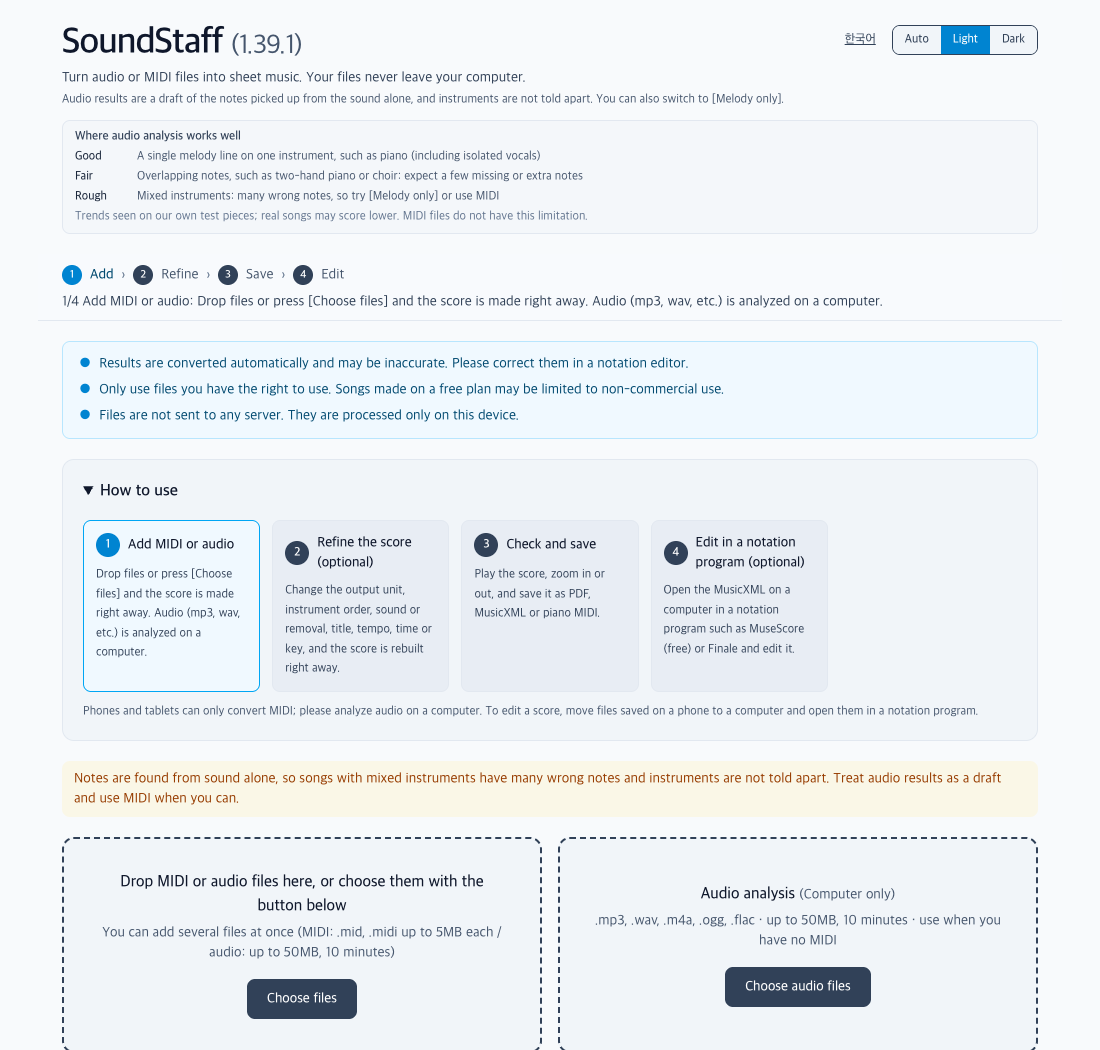
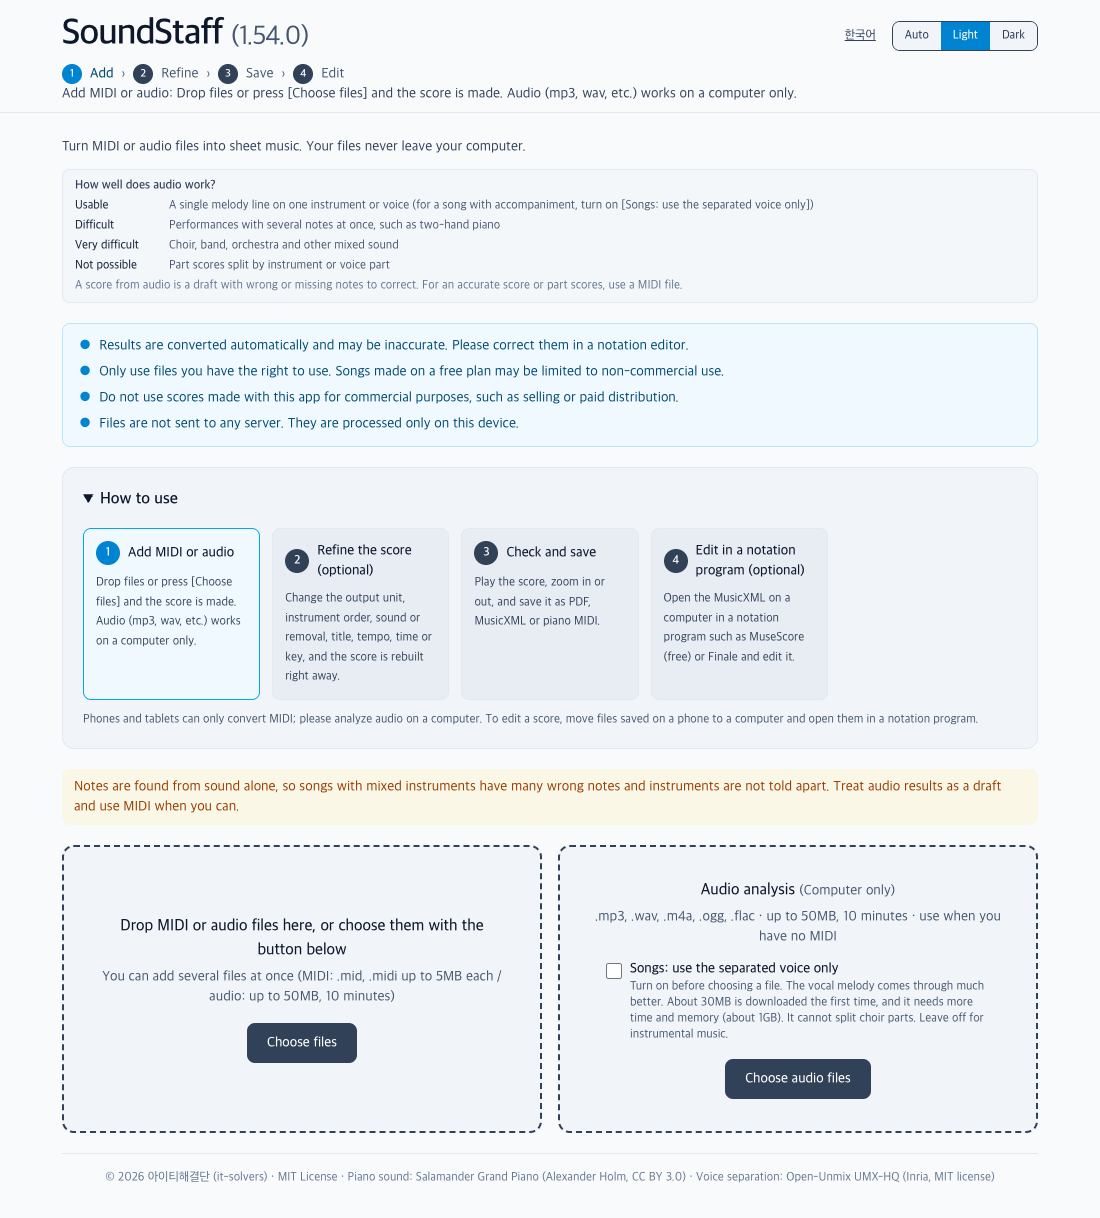
SoundStaff 소개 페이지(한글·영문)의 화면 캡처를 앱 1.54.0 화면으로 교체

diff --git a/en/insights/soundstaff.html b/en/insights/soundstaff.html
@@ -220,15 +220,15 @@
       <h2>How to use it</h2>
       <h3>1. Add a file</h3>
       <p>Drag a MIDI file (.mid, .midi) onto the page or press the file button. Audio analysis is on the right-hand card and is available on a PC only.</p>
-      <img src="../../images/soundstaff/en/01-start.png" alt="The SoundStaff start screen: usage instructions and two cards for adding a MIDI file or an audio file" width="1100" height="1050" loading="lazy" style="max-width:100%;height:auto;border:1px solid #c8d1dc;border-radius:8px;display:block;margin:12px 0">
+      <img src="../../images/soundstaff/en/01-start.png" alt="The SoundStaff start screen: usage instructions and two cards for adding a MIDI file or an audio file" width="1100" height="1218" loading="lazy" style="max-width:100%;height:auto;border:1px solid #c8d1dc;border-radius:8px;display:block;margin:12px 0">
 
       <h3>2. Adjust the score (optional)</h3>
       <p>You will see the tempo, time signature, and key it read from the piece. You can enter a title and composer, reorder the instruments, mute them, or remove them from the score. The score is rebuilt as soon as you change something.</p>
-      <img src="../../images/soundstaff/en/02-settings.png" alt="The track list of the piece, the score settings (title, composer, tempo, time signature, key), and buttons to reorder, mute, or remove each instrument" width="1100" height="1190" loading="lazy" style="max-width:100%;height:auto;border:1px solid #c8d1dc;border-radius:8px;display:block;margin:12px 0">
+      <img src="../../images/soundstaff/en/02-settings.png" alt="The track list of the piece, the score settings (title, composer, tempo, time signature, key), and buttons to reorder, mute, or remove each instrument" width="1100" height="1241" loading="lazy" style="max-width:100%;height:auto;border:1px solid #c8d1dc;border-radius:8px;display:block;margin:12px 0">
 
       <h3>3. Check and save</h3>
       <p>Play the score to hear it, zoom in and out to check it, and then save it as a PDF, MusicXML, or piano MIDI. With two or more instruments, [Make ZIP of parts] gives you a score for each one.</p>
-      <img src="../../images/soundstaff/en/03-score.png" alt="The score preview and the download buttons for PDF, MusicXML, and piano MIDI" width="1100" height="1063" loading="lazy" style="max-width:100%;height:auto;border:1px solid #c8d1dc;border-radius:8px;display:block;margin:12px 0">
+      <img src="../../images/soundstaff/en/03-score.png" alt="The score preview and the download buttons for PDF, MusicXML, and piano MIDI" width="1100" height="1093" loading="lazy" style="max-width:100%;height:auto;border:1px solid #c8d1dc;border-radius:8px;display:block;margin:12px 0">
 
       <h3>4. Edit in a notation program (optional)</h3>
       <p>On a computer, open the saved MusicXML file in a notation program such as MuseScore or Finale and edit it. If you downloaded the file on a phone, move it to a computer first. Each program may display the score a little differently.</p>

diff --git a/insights/soundstaff.html b/insights/soundstaff.html
@@ -217,15 +217,15 @@
       <h2>사용 방법</h2>
       <h3>1. 파일 올리기</h3>
       <p>MIDI 파일(.mid, .midi)을 끌어다 놓거나 [파일 선택]을 눌러요. 음원 분석은 오른쪽 카드에서 하며 PC에서만 쓸 수 있어요.</p>
-      <img src="../images/soundstaff/01-start.png" alt="SoundStaff 첫 화면: 사용 방법 안내와 MIDI·음원 파일을 올리는 두 개의 카드" width="1100" height="1050" loading="lazy" style="max-width:100%;height:auto;border:1px solid #c8d1dc;border-radius:8px;display:block;margin:12px 0">
+      <img src="../images/soundstaff/01-start.png" alt="SoundStaff 첫 화면: 사용 방법 안내와 MIDI·음원 파일을 올리는 두 개의 카드" width="1100" height="1200" loading="lazy" style="max-width:100%;height:auto;border:1px solid #c8d1dc;border-radius:8px;display:block;margin:12px 0">
 
       <h3>2. 악보 다듬기 (선택)</h3>
       <p>읽은 곡의 템포·박자·조성이 보여요. 제목과 작곡자를 적고, 악기 순서를 바꾸거나 소리를 끄거나 악보에서 뺄 수 있어요. 바꾸면 악보가 바로 다시 만들어집니다.</p>
-      <img src="../images/soundstaff/02-settings.png" alt="읽은 곡의 트랙 목록과 악보 설정(제목, 작곡자, 템포, 박자, 조성)과 악기 순서·소리 끄기·빼기 버튼" width="1100" height="1190" loading="lazy" style="max-width:100%;height:auto;border:1px solid #c8d1dc;border-radius:8px;display:block;margin:12px 0">
+      <img src="../images/soundstaff/02-settings.png" alt="읽은 곡의 트랙 목록과 악보 설정(제목, 작곡자, 템포, 박자, 조성)과 악기 순서·소리 끄기·빼기 버튼" width="1100" height="1241" loading="lazy" style="max-width:100%;height:auto;border:1px solid #c8d1dc;border-radius:8px;display:block;margin:12px 0">
 
       <h3>3. 확인하고 저장</h3>
       <p>악보를 재생해 들어 보고 확대·축소해서 확인한 뒤, PDF·MusicXML·피아노 MIDI로 저장해요. 악기가 둘 이상이면 [파트보 ZIP 만들기]로 악기별 악보도 받을 수 있어요.</p>
-      <img src="../images/soundstaff/03-score.png" alt="악보 미리보기 화면과 PDF·MusicXML·피아노 MIDI 다운로드 버튼" width="1100" height="1063" loading="lazy" style="max-width:100%;height:auto;border:1px solid #c8d1dc;border-radius:8px;display:block;margin:12px 0">
+      <img src="../images/soundstaff/03-score.png" alt="악보 미리보기 화면과 PDF·MusicXML·피아노 MIDI 다운로드 버튼" width="1100" height="1093" loading="lazy" style="max-width:100%;height:auto;border:1px solid #c8d1dc;border-radius:8px;display:block;margin:12px 0">
 
       <h3>4. 악보 프로그램에서 고치기 (선택)</h3>
       <p>PC의 악보 프로그램(MuseScore, Finale 등)에서 저장한 MusicXML 파일을 열어 고쳐요. 폰에서 받았다면 파일을 PC로 옮겨 주세요. 프로그램마다 보이는 모습은 조금 다를 수 있어요.</p>

diff --git a/docs/spec-v1.0.md b/docs/spec-v1.0.md
@@ -343,3 +343,4 @@ CLAUDE.md                        Claude 작업 규칙
 | v1.0 | 2026-11-25 08:47 | 구글 Search Console의 "적절한 표준 태그가 포함된 대체 페이지"(18개) 조치. canonical·sitemap은 `.html` 주소를 가리키는데 서버는 그 주소를 확장자 없는 주소로 리디렉션했고, 없는 주소(`/api/...`)는 메인 화면을 200으로 돌려줬다. 주소 표기를 확장자 없는 형태로 통일하고 `404.html`을 추가했다. **미확인:** 푸시 후 운영 서버의 404 응답과 canonical, 3장의 GitHub Pages 설명과 달리 응답은 Cloudflare에서 오는 점. (2026-11-25 08:47) |
 | v1.0 | 2026-11-25 14:03 | 영문 소개 페이지 `en/insights/soundstaff.html`의 화면 캡처 3장을 앱 1.39.0 영문 화면(로컬에서 촬영, 시험용 합창 MIDI)으로 바꿨다. **미확인:** 앱 1.39.0은 아직 배포 전이고, 본문 4단계 제목 "Open it in Finale" 등 Finale 기준 설명은 그대로다. (2026-11-25 14:03) |
 | v1.0 | 2026-11-25 14:11 | SoundStaff 소개 페이지(한글·영문) 본문을 앱 1.39.1 기준으로 정리했다: "연주자가 보기 편한 악보" 절 추가(악기별 표기, 타악기, 3연음, 한 줄 4마디, 파트보 ZIP, 악기별 재생), Finale 전용 설명을 악보 프로그램(MuseScore·Finale 등) 설명으로 바꿈, 캡처 6장을 운영 화면으로 교체, 메인 카드와 `llms.txt` 문구 수정. **미확인:** 실제 악보 프로그램에서 MusicXML 열기. (2026-11-25 14:11) |
+| v1.0 | 2026-11-25 19:06 | SoundStaff 소개 페이지(한글 `insights/soundstaff.html`, 영문 `en/insights/soundstaff.html`)의 화면 캡처를 각각 3장 모두 앱 1.54.0 화면(로컬에서 밝은 화면으로 촬영, 시험용 합창 MIDI)으로 바꾸고 그림 크기 속성을 맞췄다. 본문 글은 바꾸지 않았다. **미확인:** 앱 1.54.0은 아직 배포 전이다. (2026-11-25 19:06) |
